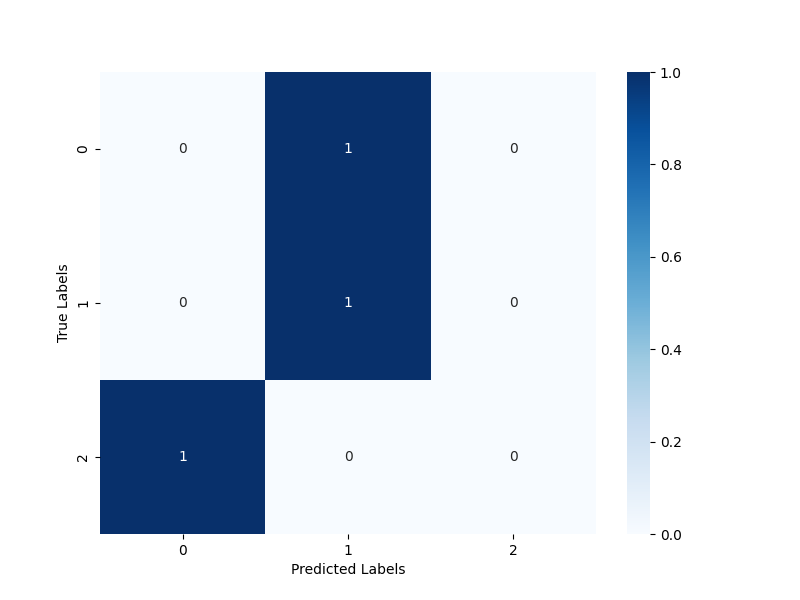
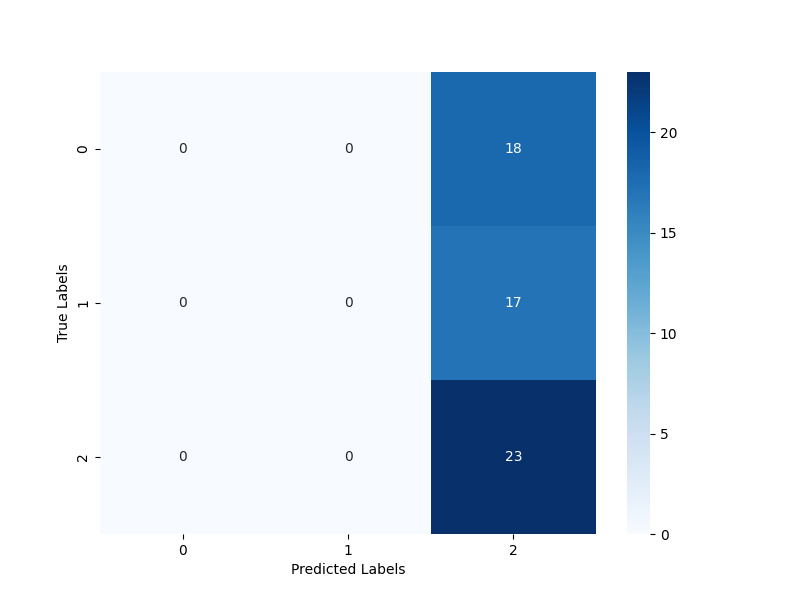
tcn run

diff --git a/Assignment/DL.py b/Assignment/DL.py
@@ -6,11 +6,16 @@ from pathlib import Path
 import time
 import sys
 from datetime import datetime
-from tensorflow.keras.models import Sequential
-from tensorflow.keras.layers import LSTM, Dense, Flatten, MaxPooling1D, Conv1D, Dropout
 from sklearn.preprocessing import LabelEncoder, OneHotEncoder
 import seaborn as sns
 from sklearn.metrics import confusion_matrix, classification_report
+from sklearn.model_selection import train_test_split
+from tensorflow.keras.layers import Input, Dense
+from tensorflow.keras.models import Model
+from tensorflow.keras.optimizers.legacy import Adam
+from tcn import TCN, tcn_full_summary
+from keras.utils.vis_utils import plot_model
+
 
 
 sys.path.append("Python3Code")
@@ -58,13 +63,15 @@ stroke_types = labels.unique()
 num_sessions = len(session_dates)
 num_strokes = len(stroke_types)
 num_features = len(dataset.columns)
-num_timepoints = util.find_max_consecutive_occurrence(labels)  # Assuming a fixed number of time points per stroke
+num_timepoints = 10*100  # 10 seconds of data sampled at 100 Hz
 
 # Reshape and pad the data
-X = np.zeros((num_strokes * num_sessions, num_timepoints, num_features))
-y = np.zeros(num_strokes * num_sessions, dtype=object)
+max_batch = int(util.find_max_consecutive_occurrence(labels)/num_timepoints) # the maximum number of batches of num_timepoints that can be extracted from the data
+X = np.zeros((num_strokes * num_sessions * max_batch, num_timepoints, num_features))
+y = np.zeros(num_strokes * num_sessions * max_batch, dtype=object)
 
 # Iterate over each session
+idx = 0
 for session in range(num_sessions):
     session_start_date = session_dates[session]
 
@@ -75,17 +82,19 @@ for session in range(num_sessions):
         
         # Reshape and pad the stroke data
         num_samples = len(session_stroke_data)
-        padded_data = np.zeros((num_timepoints, num_features))
-        
-        if num_samples <= num_timepoints:
-            padded_data[:num_samples] = session_stroke_data
-        else:
-            padded_data[:] = session_stroke_data[:num_timepoints]
-        
-        # Assign the reshaped and padded stroke data to the final array
-        stroke_idx = session * num_strokes + stroke
-        X[stroke_idx] = padded_data
-        y[stroke_idx] = stroke_types[stroke]  # Assign the stroke label 
+        batches = int(np.floor(num_samples / num_timepoints))
+        for batch in range(batches):
+            start_idx = batch * num_timepoints
+            end_idx = (batch + 1) * num_timepoints
+            if end_idx > num_samples:
+                break
+            X[idx, :, :] = session_stroke_data.iloc[start_idx:end_idx].values
+            y[idx] = stroke_types[stroke]  
+            idx += 1
+
+# delete all rows from X and y that are all zeros
+X = X[~np.all(X == 0, axis=(1, 2))]
+y = y[~(y.astype(str) == '0')]
 
 # Encode labels as integers using LabelEncoder
 label_encoder = LabelEncoder()
@@ -97,51 +106,44 @@ y_reshaped = y_encoded.reshape(-1, 1)
 # One-hot encode the reshaped labels
 onehot_encoder = OneHotEncoder(sparse=False)
 y_onehot = onehot_encoder.fit_transform(y_reshaped)
-y_onehot = y_onehot.reshape(num_sessions * num_strokes, num_strokes)
+y_onehot = y_onehot.reshape(-1, num_strokes)
 
-# Split the data into training and test sets
-X_train = X[:num_strokes]
-X_test = X[num_strokes:]
-y_train = y_onehot[:num_strokes,:]
-y_test = y_onehot[num_strokes:,:]
+# Split the data into training and test sets in a stratified manner
+X_train, X_test, y_train, y_test = train_test_split(X, y_onehot, test_size=0.3, stratify=y_onehot)
 
 # Parameters
-learning_rate = 7.909397807310018e-05
-num_filters = 32
+learning_rate = 3.787644382648462e-05
+num_filters = 128
 kernel_size = 5
-dropout_rate = 0.12176824273204394
-epochs = 10
-batch_size = 32
+dropout_rate = 0.007754162444363369
+dilations = [1, 2, 4, 8, 16, 32, 64, 128, 256]
+
 
 # Create a sequential model
 print('Creating model...')
-model = Sequential()
+
 
 ## LSTM #############################################################################################
 # # Add an LSTM layer with 64 units
+# model = Sequential()
 # model.add(LSTM(64, input_shape=(num_timepoints, num_features)))
 # # Add a dense output layer with the desired number of classes or predictions
 # model.add(Dense(num_strokes, activation='softmax')) 
  
 
 # TCN ##############################################################################################    
-model.add(Conv1D(filters=num_filters, kernel_size=kernel_size, activation='relu', input_shape=(num_timepoints, num_features)))
-model.add(MaxPooling1D(pool_size=2))
-model.add(Conv1D(filters=num_filters, kernel_size=kernel_size, activation='relu'))
-model.add(MaxPooling1D(pool_size=2))
-model.add(Flatten())
-model.add(Dense(64, activation='relu'))
-model.add(Dropout(dropout_rate))
-model.add(Dense(num_strokes, activation='softmax'))
-
+inputs = Input(shape=(num_timepoints, num_features))
+x = TCN(num_filters, kernel_size, dilations=dilations, dropout_rate=dropout_rate, return_sequences=False)(inputs)
+outputs = Dense(num_strokes, activation='relu')(x)
+model = Model(inputs=[inputs], outputs=[outputs])
 ####################################################################################################
 # Compile the model
 print('Training model...')
-model.compile(optimizer='adam', loss='categorical_crossentropy', metrics=['accuracy'])
+model.compile(optimizer=Adam(learning_rate=learning_rate), loss='categorical_crossentropy', metrics=['accuracy'])
 # Print the model summary
 model.summary()
 # Train the model with your data
-history = model.fit(X_train, y_train, epochs=epochs, batch_size=batch_size) 
+history = model.fit(X_train, y_train, epochs=10, batch_size=32) 
 
 # Evaluate the model on your test data
 loss, accuracy = model.evaluate(X_test, y_test) 
@@ -185,3 +187,4 @@ plt.show()
 # Print classification report
 print(classification_report(y_test, y_pred))
 
+plot_model(model, to_file=FIGURE_PATH/'model-TCN.png', show_shapes=True)

diff --git a/Assignment/DL_optimize.py b/Assignment/DL_optimize.py
@@ -7,13 +7,15 @@ import time
 import sys
 from datetime import datetime
 import tensorflow as tf
-from tensorflow.keras.models import Sequential
-from tensorflow.keras.layers import LSTM, Dense, Flatten, MaxPooling1D, Conv1D, Dropout
+from tensorflow.keras.layers import Input, Dense
+from tensorflow.keras.models import Model
 from tensorflow.keras.optimizers.legacy import Adam
+from tcn import TCN, tcn_full_summary
 import optuna
 from sklearn.preprocessing import LabelEncoder, OneHotEncoder
 import seaborn as sns
 from sklearn.metrics import confusion_matrix, classification_report
+from sklearn.model_selection import train_test_split
 
 
 sys.path.append("Python3Code")
@@ -58,13 +60,15 @@ stroke_types = labels.unique()
 num_sessions = len(session_dates)
 num_strokes = len(stroke_types)
 num_features = len(dataset.columns)
-num_timepoints = util.find_max_consecutive_occurrence(labels)  # Assuming a fixed number of time points per stroke
+num_timepoints = 10*100  # 10 seconds of data sampled at 100 Hz
 
 # Reshape and pad the data
-X = np.zeros((num_strokes * num_sessions, num_timepoints, num_features))
-y = np.zeros(num_strokes * num_sessions, dtype=object)
+max_batch = int(util.find_max_consecutive_occurrence(labels)/num_timepoints) # the maximum number of batches of num_timepoints that can be extracted from the data
+X = np.zeros((num_strokes * num_sessions * max_batch, num_timepoints, num_features))
+y = np.zeros(num_strokes * num_sessions * max_batch, dtype=object)
 
 # Iterate over each session
+idx = 0
 for session in range(num_sessions):
     session_start_date = session_dates[session]
 
@@ -75,17 +79,19 @@ for session in range(num_sessions):
         
         # Reshape and pad the stroke data
         num_samples = len(session_stroke_data)
-        padded_data = np.zeros((num_timepoints, num_features))
-        
-        if num_samples <= num_timepoints:
-            padded_data[:num_samples] = session_stroke_data
-        else:
-            padded_data[:] = session_stroke_data[:num_timepoints]
-        
-        # Assign the reshaped and padded stroke data to the final array
-        stroke_idx = session * num_strokes + stroke
-        X[stroke_idx] = padded_data
-        y[stroke_idx] = stroke_types[stroke]  # Assign the stroke label 
+        batches = int(np.floor(num_samples / num_timepoints))
+        for batch in range(batches):
+            start_idx = batch * num_timepoints
+            end_idx = (batch + 1) * num_timepoints
+            if end_idx > num_samples:
+                break
+            X[idx, :, :] = session_stroke_data.iloc[start_idx:end_idx].values
+            y[idx] = stroke_types[stroke]  
+            idx += 1
+
+# delete all rows from X and y that are all zeros
+X = X[~np.all(X == 0, axis=(1, 2))]
+y = y[~(y.astype(str) == '0')]
 
 # Encode labels as integers using LabelEncoder
 label_encoder = LabelEncoder()
@@ -97,40 +103,30 @@ y_reshaped = y_encoded.reshape(-1, 1)
 # One-hot encode the reshaped labels
 onehot_encoder = OneHotEncoder(sparse=False)
 y_onehot = onehot_encoder.fit_transform(y_reshaped)
-y_onehot = y_onehot.reshape(num_sessions * num_strokes, num_strokes)
+y_onehot = y_onehot.reshape(-1, num_strokes)
 
-# Split the data into training and test sets
-X_train = X[:num_strokes]
-X_test = X[num_strokes:]
-y_train = y_onehot[:num_strokes,:]
-y_test = y_onehot[num_strokes:,:]
+# Split the data into training and test sets in a stratified manner
+X_train, X_test, y_train, y_test = train_test_split(X, y_onehot, test_size=0.3, stratify=y_onehot)
 
 def objective(trial):
     # Define the parameter search space
-    learning_rate = trial.suggest_float('learning_rate', 1e-5, 1e-1, log=True)
+    learning_rate = trial.suggest_float('learning_rate', 1e-7, 1e-1, log=True)
     num_filters = trial.suggest_categorical('num_filters', [32, 64, 128, 256])
-    kernel_size = trial.suggest_categorical('kernel_size', [3, 5])
+    kernel_size = trial.suggest_categorical('kernel_size', [3, 5, 10])
     dropout_rate = trial.suggest_float('dropout_rate', 0.0, 0.5)
-    epochs = trial.suggest_categorical('epochs', [10, 20, 30, 40, 50])
-    batch_size = trial.suggest_categorical('batch_size', [8, 16, 32, 64])
+    dilations = trial.suggest_categorical('dilations', [[1, 2, 4, 8, 16, 32, 64], [1, 2, 4, 8, 16, 32], [1, 2, 4, 8, 16], [1, 2, 4, 8], [1, 2, 4], [1, 2], [1]])
 
     # Build the model
-    model = Sequential()
-    model.add(Conv1D(filters=num_filters, kernel_size=kernel_size, activation='relu', input_shape=(num_timepoints, num_features)))
-    model.add(MaxPooling1D(pool_size=2))
-    model.add(Conv1D(filters=num_filters, kernel_size=kernel_size, activation='relu'))
-    model.add(MaxPooling1D(pool_size=2))
-    model.add(Flatten())
-    model.add(Dense(64, activation='relu'))
-    model.add(Dropout(dropout_rate))
-    model.add(Dense(num_strokes, activation='softmax'))
+    inputs = Input(shape=(num_timepoints, num_features))
+    x = TCN(num_filters, kernel_size, dilations=dilations, dropout_rate=dropout_rate, return_sequences=False)(inputs)
+    outputs = Dense(num_strokes, activation='relu')(x)
+    model = Model(inputs=[inputs], outputs=[outputs])
 
     # Compile the model
-    optimizer = Adam(learning_rate=learning_rate)
-    model.compile(optimizer=optimizer, loss='categorical_crossentropy', metrics=['accuracy'])
+    model.compile(Adam(learning_rate=learning_rate), loss='categorical_crossentropy', metrics=['accuracy'])
 
     # Train the model
-    history = model.fit(X_train, y_train, epochs=epochs, batch_size=batch_size, verbose=0)
+    history = model.fit(X_train, y_train, epochs=10, batch_size=32, verbose=0)
 
     # Evaluate the model
     loss, accuracy = model.evaluate(X_test, y_test)
